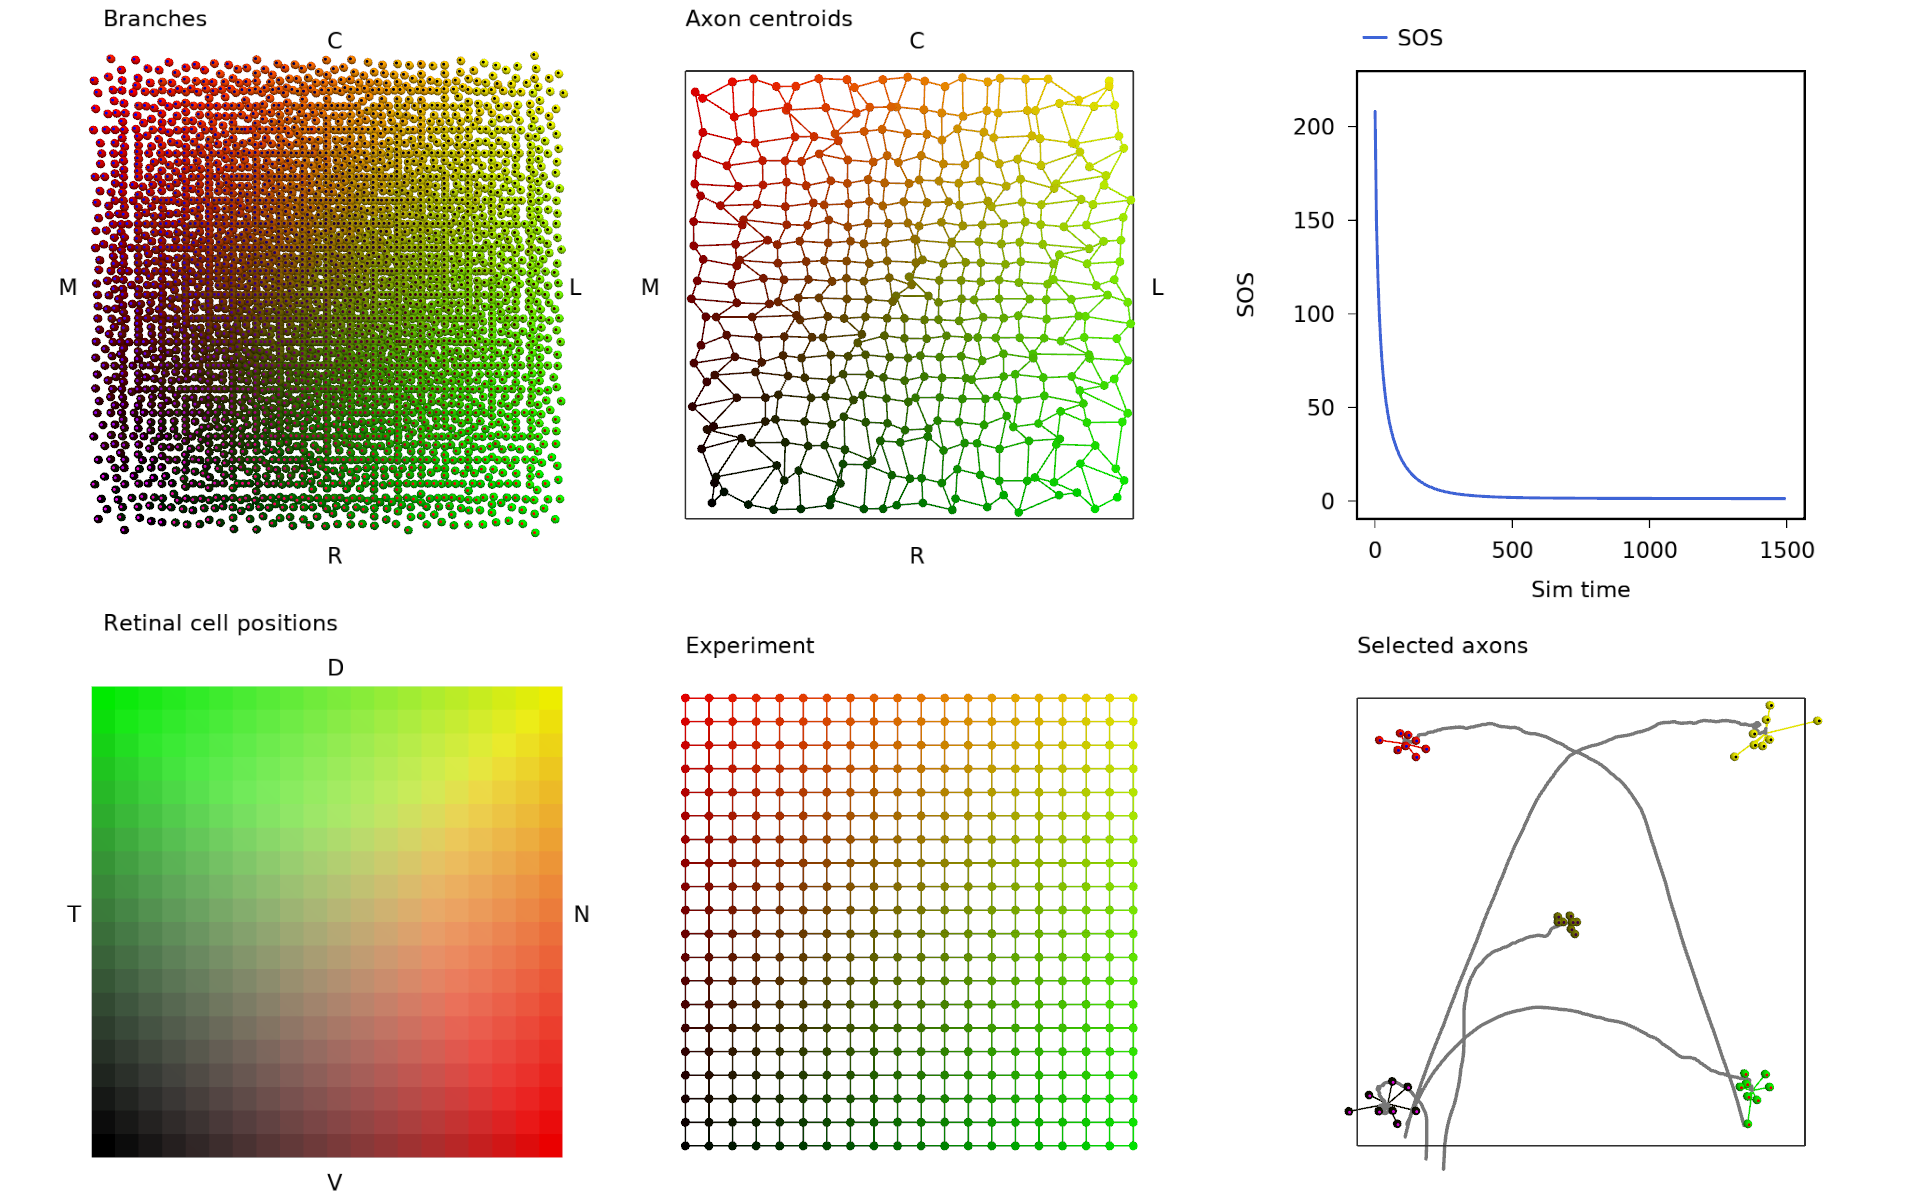
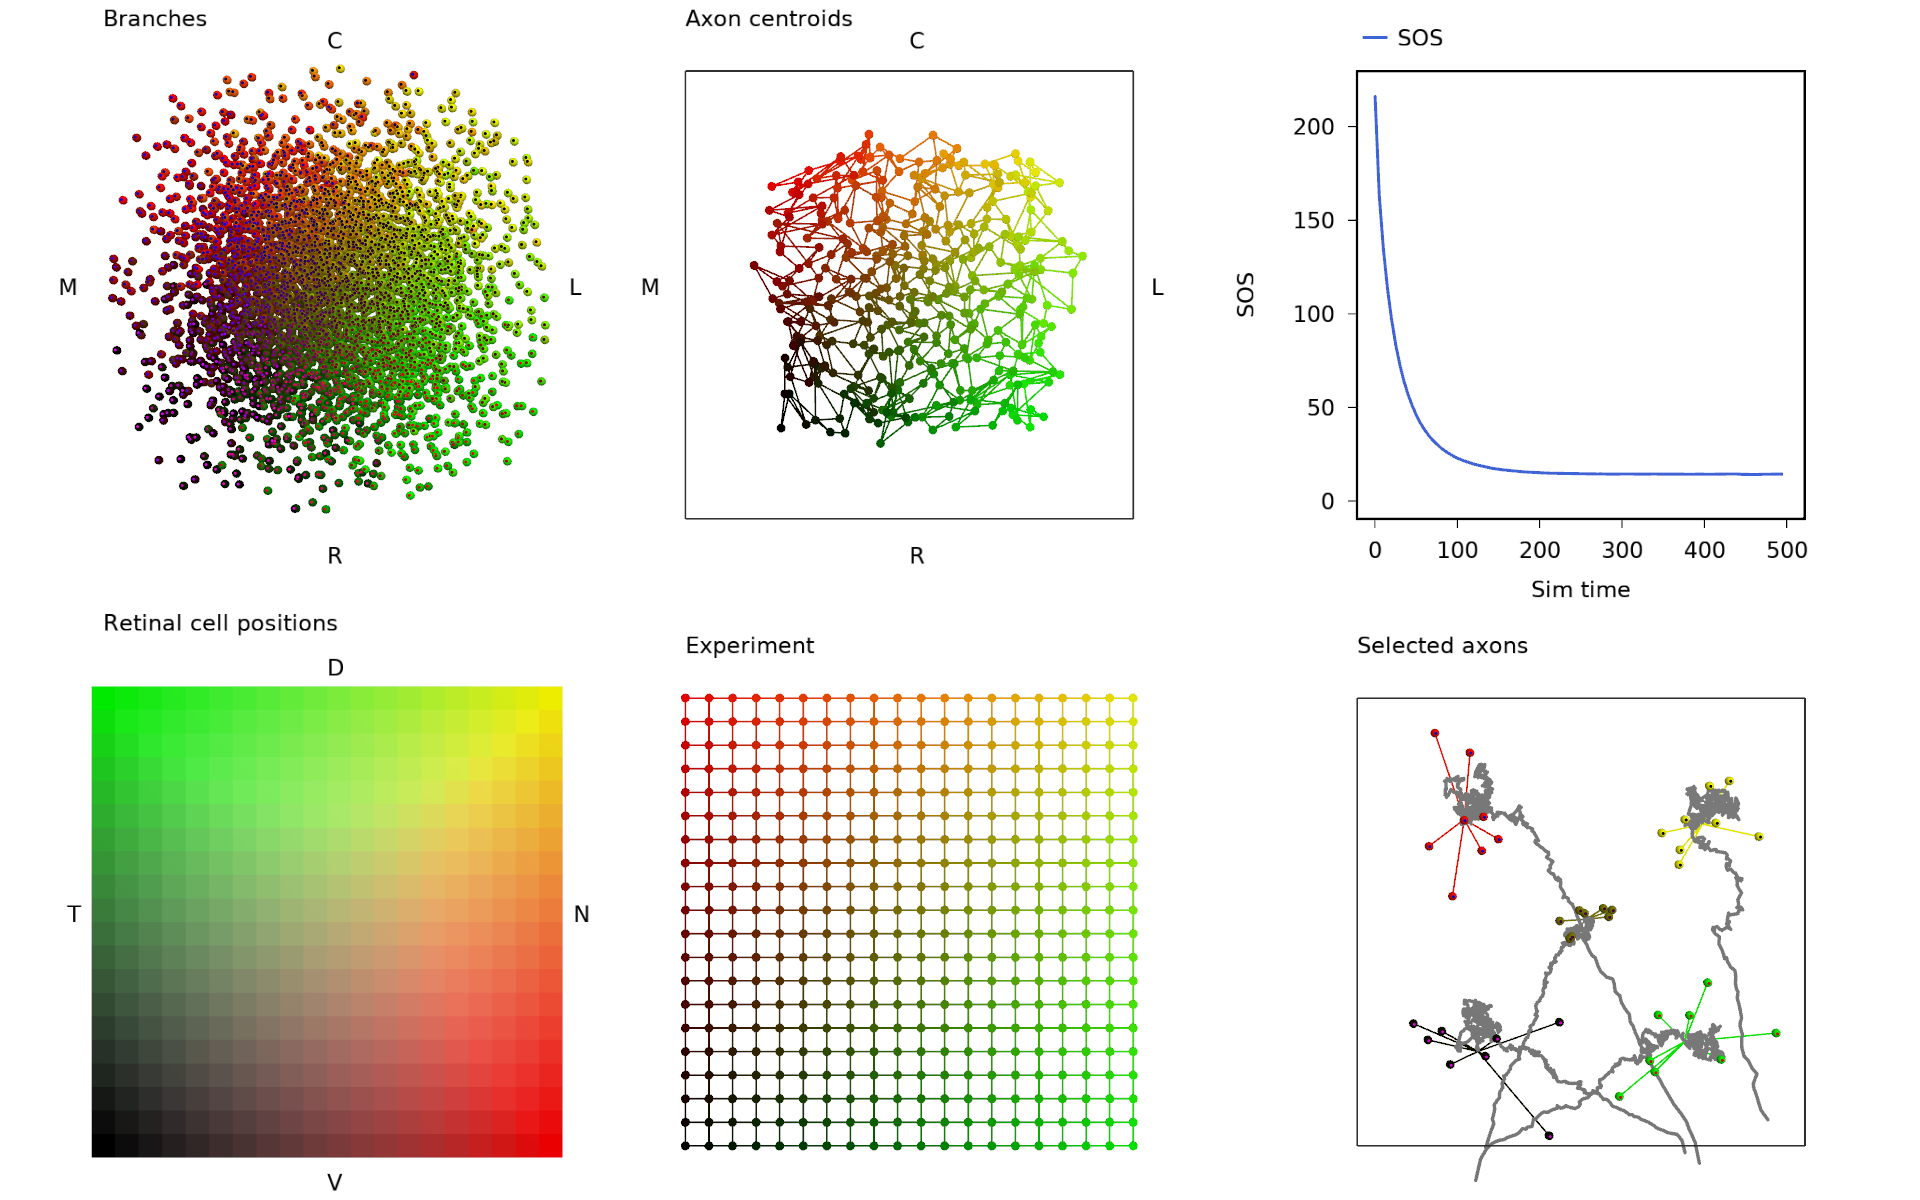
WIP. Thinking about competition and axon interaction distances

diff --git a/paper/paper.tex b/paper/paper.tex
@@ -182,7 +182,10 @@
   \emph{or} \\
   Self-organisation of topographically ordered axon connections can take place
   in a noisy environment if axons compete \\
+  \emph{or} \\
   Time to stop; modelling chemoaffinity with competition \\
+  \emph{or} \\
+  Can the retinotectal projection be modelled exclusively by receptor-ligand interactions?
 }
 \date{} % No date please
 \author{\Authors}
@@ -359,14 +362,15 @@ within a threshold distance of one another. Interaction is signal-induced
 repulsion, which is triggered if two agents are both within the threshold
 distance of each other and have compatible EphA receptor expression.
 
-In our model, space-based competition was omitted and chemoaffinity and
-axon-axon interactions were remodelled so that all interactions were via
-signal transmission between receptors and ligands, which are expressed in
-graded patterns on both retina and tectum. Signals induce attractive or
-repulsive interactions; for chemoaffinity the interaction is to ascend or
-descend the gradient of ligand expression on the tectum; for axon-axon
-interactions, the strength of short-range repulsion (or attraction) is
-governed by the receptor-ligand expression on pairs of axons.
+In our model, space-based competition was retained (though sometimes omitted)
+and chemoaffinity and axon-axon interactions were remodelled so that all
+interactions occurred via signal transmission between receptors and ligands,
+both of which are expressed in graded patterns on both retina and
+tectum. Signals induce attractive or repulsive interactions; for chemoaffinity
+the interaction is to ascend or descend the gradient of ligand expression on
+the tectum; for axon-axon interactions, the strength of short-range repulsion
+(or attraction) is governed by the receptor-ligand expression on pairs of
+axons.
 
 \subsection*{Receptor and ligand expression}
 
@@ -450,30 +454,44 @@ include the ephrin-A, ephrin-B, Wnt3 \citep{schmitt_wntryk_2006} and
 RGM \citep{monnier_rgm_2002} ligands, each of which has been shown to play a
 role in retinotectal map formation.
 
-Figure~\ref{f:ex} shows colour maps of receptor and ligand
-expression, in this case tectal ligand expression maps are linear. Note that
-the expression is discretized, and in simulations, the gradient is computed
-numerically from the discretized expression. This makes it straightforward to
-perform tectal and retinal `graft' manipulations.
+Figure~\ref{f:ex} shows colour maps of receptor and ligand expression, in this
+case tectal ligand expression maps are linear. Note that the expression is
+discretized, and in simulations, the gradient is computed numerically from the
+discretized expression. This makes it straightforward to perform tectal and
+retinal `graft' manipulations. Coordinates within the simulated retina and
+tectum are normalised, with 1 corresponding to 2 mm on the tectum and on the
+retina for mouse \citep{reber_relative_2004}. This means that growth cones of
+approximate radius 5 $\mu$m = 0.005 mm \citep{goodhill_molecular_2016} have a
+radius $r$ = 0.0025 in the arbitrary units of the simulation. For a realistic
+simulation based on mouse, the approximate RGC density in the retina is around
+44000 cells per retina \citep{jeon_major_1998}. This sets the side length of
+the retina to $\sqrt{44000} \approx 200$. This results in a simulation of
+prodigious computational size, which although tractable (10 s per step,
+requiring several hours, rather than days to run) is not convenient. To
+maintain the relationship between growth cone size and cell density, we permit
+a smaller number of growth cones ($400\times8=3200$) but keep the fractional
+area of the branches at 0.86 ($44000 \times \pi r^2$) (if there is one cone
+per axon) or 6.9 (if there are 8 cones per axon).
 
 \subsection*{Movement}
 
-At each timestep in a simulation, the position, $\mathbf{x}_{b,t}$, of each
-branch, $b$, is updated according to
+At each timestep in a simulation, the position, $\mathbf{x}_{b,t}$, at time
+$t$ of each branch $b$ is updated according to
 %
 \begin{equation}
 \mathbf{x}_{b,t+1} = \mathbf{x}_{b,t} + \mathbf{M}_{b}
 \end{equation}
 %
 where $\mathbf{M}_{b}$, the movement vector, is the sum of a chemoaffinity
-effect, $\mathbf{G}_b$, an axon-axon interaction, $\mathbf{I}_b$ and a `border effect',
+effect, $\mathbf{G}_b$, axon-axon competition, $\mathbf{C}_b$, an axon-axon
+receptor-ligand interaction, $\mathbf{I}_b$ and a `border effect',
 $\mathbf{B}_b$, which acts to retain branches within the tectal region:
 %
 \begin{equation}
-\mathbf{M}_{b} = m_1 \mathbf{G}_b + m_2 \mathbf{I}_b + m_3 \mathbf{B}_b
+\mathbf{M}_{b} = m_1 \mathbf{G}_b + m_2 \mathbf{C}_b + m_3 \mathbf{I}_b + m_4 \mathbf{B}_b
 \end{equation}
 %
-evaluated at time $t$. $m_1$, $m_2$ and $m_3$ are scalar parameters.
+evaluated at time $t$. $m_1$--$m_4$ are scalar parameters.
 
 \subsection*{Chemoaffinity}
 
@@ -498,6 +516,27 @@ pair $i$, $\nabla L_i$ is the gradient of expression of ligand $i$ on the
 tectum and $F_i$ denotes the direction of the interaction induced when a
 molecule of ligand $i$ binds to a receptor $i$ molecule. $F_i$ takes the value
 -1 for a repulsive interaction or 1 for an attractive interaction.
+
+\subsection*{Axon-axon competition}
+
+Competition, in the context of this model, is a repulsive effect which acts
+between any two branches, whether they originate from different retinal
+ganglion cells or from the same cell. It assumes that there is some kind of
+self-other signal (\textbf{be sure to discuss possible origins}) which acts to
+discourage two cells from approaching each other.
+%
+\begin{equation}
+\mathbf{C}_b = \frac{1}{|B_b|} \sum_k \hat{\mathbf{x}}_{kb} W
+\end{equation}
+where the distance based weight $W$ is given by
+\begin{equation}
+W(d_{kb}) = \begin{cases}
+      1 - \frac{d_{kb}}{2r}   & d_{kb} \leq 2r \\
+     0 & d_{kb} > 2r
+     \end{cases}
+\end{equation}
+for two growth cones of radius $r$ separated by a distance $d_{kb}$. $B_b$ is
+the set of growth cones within a distance $2r$ of branch $b$.
 
 \subsection*{Axon-axon interactions}
 
@@ -708,6 +747,10 @@ tectal sheet change logarithmically.}
 \subsection*{Is chemoaffinity alone sufficient to explain the retinotectal projection?}
 
 Introductory sentence.
+
+\textbf{FIXME: Find the expression functions for the tectum which give a
+decent WT result. Perhaps I already did this? Experiment with these and
+axon-axon with smaller radius of interaction.}
 
 We now describe the behaviour of a model which has only the gradient-based
 chemoaffinity effect and no axon-axon interaction or border effect

diff --git a/sim/agent/branchvisual.h b/sim/agent/branchvisual.h
@@ -65,6 +65,13 @@ public:
     {
         if (this->axonview) { return this->initializeAxonview(); }
 
+        // Set radius from the first branch
+        if (this->setRadiusFromBranches && !this->branches->empty()) {
+            this->radiusFixed = (*this->branches)[0].getr();
+            this->rad_competition = (*this->branches)[0].getrc() > this->radiusFixed ? (*this->branches)[0].getrc() : 0.0f;
+            this->rad_interaction = (*this->branches)[0].getrrl() > this->radiusFixed ? (*this->branches)[0].getrrl() : 0.0f;
+        }
+
         VBOint idx = 0;
         // For each branch,simply draw a sphere for the current location, with a second
         // colour for the rcpt expression.
@@ -78,11 +85,24 @@ public:
             // sphere to change size of clr2 disc at top
             morph::Vector<float, 3> cur = { b.current[0], b.current[1], 0 };
             this->computeSphere (idx, cur, clr, clr2, this->radiusFixed, 14, 12);
+
+            // Draw ring for the competition interaction
+            if (rad_competition > 0.0f) {
+                this->computeRing (idx, cur, clr, this->rad_competition, 0.1f*this->rad_competition, 12);
+            }
+            if (rad_interaction > 0.0f) {
+                this->computeRing (idx, cur, clr, this->rad_interaction, 0.1f*this->rad_interaction, 12);
+            }
         }
     }
 
     void initializeAxonview()
     {
+        // Set radius from the first branch
+        if (this->setRadiusFromBranches && !this->branches->empty()) {
+            this->radiusFixed = (*this->branches)[0].getr();
+        }
+
         VBOint idx = 0;
 
         if (this->ax_history->empty()) { return; }
@@ -128,6 +148,10 @@ public:
     //! Container for axon centroids. Compute here or only vis here?
     //! Change this to get larger or smaller spheres.
     Flt radiusFixed = 0.01;
+    Flt rad_competition = 0.0; // For a ring showing competitive interaction radius
+    Flt rad_interaction = 0.0; // For a ring showing recpt-lgnd interaction radius
+    // If true, then use the r which is encoded in the first branch in branches to set radiusFixed. Else, don't change it.
+    bool setRadiusFromBranches = true;
     Flt linewidth = 0.008;
     Flt blinewidth = 0.004;
     //! A normal vector, fixed as pointing up

diff --git a/sim/agent/branch.h b/sim/agent/branch.h
@@ -27,9 +27,18 @@ struct branch : public branch_base<T,N>
 {
     // Distance parameter r is used as 2r
     void setr (T _r) { this->r = _r; this->two_r = _r*T{2}; }
+    T getr() { return this->r; }
+    T getrc() { return this->rc; }
+    T getrrl() { return this->rrl; }
+    void setrc (T _r) { this->rc = _r; this->two_rc = _r*T{2}; }
+    void setrrl (T _r) { this->rrl = _r; this->two_rrl = _r*T{2}; }
 protected:
     T r = T{0.04};  // Note - arrangement is quite strongly dependent on this interaction radius
     T two_r = T{2}*r;
+    T rc = T{0.04};
+    T two_rc = T{2}*r;
+    T rrl = T{0.04};
+    T two_rrl = T{2}*r;
 public:
     // Signalling ratio parameter for S&G-type interaction (but on 4 receptors, not 1)
     static constexpr bool s_g_interaction = false;
@@ -117,7 +126,7 @@ public:
         //
         // W is a distance-dependent weight, which is 0 outside a distance of two_r and
         // linearly increases to 1 when d=0.
-        T W = d <= this->two_r ? (T{1} - d/this->two_r) : T{0};
+        T W = d <= this->two_rc ? (T{1} - d/this->two_rc) : T{0};
         C += kb * W;
 
         // Receptor-ligand axon-axon interaction, I
@@ -151,11 +160,11 @@ public:
                 + kp->lgnd[1] * this->rcpt[1] * (source_tissue->forward_interactions[1] == interaction::repulsion ? 1 : -1);
             }
             Q /= N;
-            I += kb * Q * (d <= this->two_r ? T{1} : T{0});
+            I += kb * Q * (d <= this->two_rrl ? T{1} : T{0});
         }
 
-        // In client code, should we add to n_k or not?
-        return (d <= this->two_r ? T{1} : T{0});
+        // In client code, should we add to n_k or not? (only used for competition, hence d <= two_rc)
+        return (d <= this->two_rc ? T{1} : T{0});
     }
 
     // A subroutine of compute_next

diff --git a/sim/agent/agent1.h b/sim/agent/agent1.h
@@ -642,12 +642,17 @@ struct Agent1
         std::array<float, 3> red = { 1.0f, 0.0f, 0.0f };
         std::array<float, 3> blue = { 0.0f, 0.0f, 1.0f };
 
+        float r_conf = this->mconf->getFloat ("r", 0.05f);
+        float rc_conf = this->mconf->getFloat ("rc", r_conf);
+        float rrl_conf = this->mconf->getFloat ("rrl", r_conf);
         // A loop to set up each branch object in pending_branches.
         for (unsigned int i = 0; i < this->pending_branches.size(); ++i) {
             // Set the branch's termination zone
             unsigned int ri = i/bpa; // retina index
             this->pending_branches[i].init();
-            this->pending_branches[i].setr (this->mconf->getFloat ("r", 0.05f));
+            this->pending_branches[i].setr (r_conf);
+            this->pending_branches[i].setrc (rc_conf);
+            this->pending_branches[i].setrrl (rrl_conf);
             this->pending_branches[i].aid = (int)ri; // axon index
             if (conf->getBool ("singleaxon", false)) {
                 this->pending_branches[i].rcpt = this->ret->rcpt[singleaxon_idx]; // FIXME: Use seeaxons

diff --git a/sim/agent/branch_geb.h b/sim/agent/branch_geb.h
@@ -16,8 +16,15 @@ struct branch_geb : public branch_base<T,N>
 {
     // The cone radius, hard coded
     void setr (T _r) { this->r = _r; }
+    T getr() { return this->r; }
+    T getrc() { return this->rc; }
+    T getrrl() { return this->rrl; }
+    void setrc(T _r) {}
+    void setrrl(T _r) {}
 protected:
     T r = T{0.05};
+    T rc = T{0.0};
+    T rrl = T{0.0};
 
 public:
     // For random angle choice
